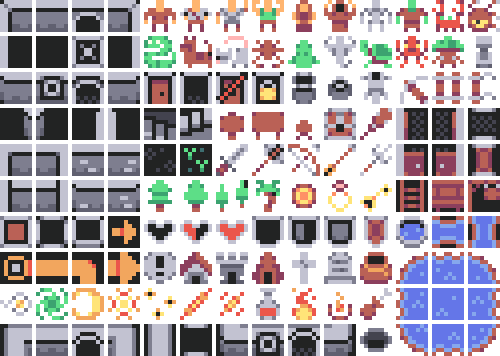
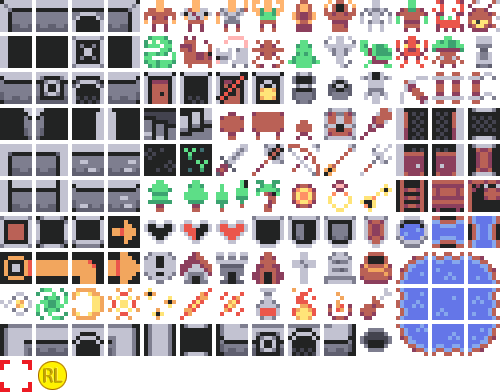
game hud

diff --git a/RPG/game.cpp b/RPG/game.cpp
@@ -1,23 +1,11 @@
 #include "game.h"
 #include "main.h"
 #include "map.h"
+#include "game_hud.h"
 
 #include "raylib.h"
 #include "raymath.h"
 
-// game state data
-
-struct PlayerData
-{
-	Vector2 Position = { 0,0 };
-	SpriteInstance* Sprite = nullptr;
-
-	bool TargetActive = false;
-	Vector2 Target = { 0, 0 };
-	SpriteInstance* TargetSprite = nullptr;
-
-	float Speed = 100;
-};
 
 struct Exit
 {
@@ -28,6 +16,8 @@ struct Exit
 PlayerData Player;
 std::vector<Exit> Exits;
 
+GameHudScreen GameHud(Player);
+
 void LoadLevel(const char* level)
 {
 	LoadMap(level);
@@ -35,6 +25,7 @@ void LoadLevel(const char* level)
 	Player.TargetSprite->Tint = ColorAlpha(Player.TargetSprite->Tint, 0.5f);
 
 	Player.Sprite = AddSprite(PlayerSprite, Player.Position);
+	Player.Sprite->Bobble = true;
 }
 
 void StartLevel()
@@ -66,6 +57,8 @@ void StartLevel()
 
 void InitGame()
 {
+	ActivateGame();
+
 	// load start level
 	LoadLevel("resources/maps/level0.tmx");
 	StartLevel();
@@ -76,13 +69,9 @@ void QuitGame()
 	ClearMap();
 }
 
-void SetSpritePos(SpriteInstance* sprite, Vector2 pos)
+void ActivateGame()
 {
-	if (sprite != nullptr)
-	{
-		sprite->Position = pos;
-		sprite->Position.y += fabsf(sinf(float(GetTime() * 5)) * 3);
-	}
+	SetActiveScreen(&GameHud);
 }
 
 void GetMoveInput()
@@ -145,7 +134,8 @@ void MovePlayer()
 
 void UpdatePlayerSprite()
 {
-	SetSpritePos(Player.Sprite, Player.Position);
+	if (Player.Sprite != nullptr)
+		Player.Sprite->Position = Player.Position;
 
 	if (Player.TargetSprite != nullptr)
 	{
@@ -166,7 +156,6 @@ void UpdateGame()
 
 	GetMoveInput();
 	MovePlayer();
-
 
 	UpdateSprites();
 }

diff --git a/RPG/include/game.h b/RPG/include/game.h
@@ -1,5 +1,34 @@
 #pragma once
 
+#include "raylib.h"
+#include "sprites.h"
+#include "map.h"
+
 void InitGame();
+void ActivateGame();
 void QuitGame();
 void UpdateGame();
+
+// game state data
+
+struct PlayerData
+{
+	Vector2 Position = { 0,0 };
+	SpriteInstance* Sprite = nullptr;
+
+	bool TargetActive = false;
+	Vector2 Target = { 0, 0 };
+	SpriteInstance* TargetSprite = nullptr;
+
+	float Speed = 100;
+
+	// player stats
+	int Health = 100;
+	int MaxHealth = 100;
+
+	int Gold = 0;
+
+	// inventory
+
+	// event callbacks
+};

diff --git a/RPG/map.cpp b/RPG/map.cpp
@@ -89,7 +89,13 @@ void DrawMap()
 	{
 		const SpriteInstance& sprite = entry.second;
 		if (sprite.Active)
-			DrawSprite(sprite.SpriteFrame, sprite.Position.x, sprite.Position.y, 0.0f, 1.0f, sprite.Tint);
+		{
+			float offset = 0;
+			if (sprite.Bobble)
+				offset =  fabsf(sinf(float(GetTime() * 5)) * 3);
+
+			DrawSprite(sprite.SpriteFrame, sprite.Position.x, sprite.Position.y + offset, 0.0f, 1.0f, sprite.Tint);
+		}
 	}
 	EndMode2D();
 }

diff --git a/RPG/game_hud.cpp b/RPG/game_hud.cpp
@@ -1,0 +1,16 @@
+#include "game_hud.h"
+#include "raylib.h"
+
+GameHudScreen::GameHudScreen(PlayerData& player) 
+	: Screen()
+	, Player(player)
+{
+
+}
+
+void GameHudScreen::Draw()
+{
+	DrawRectangle(0, GetScreenHeight() - 80, GetScreenWidth(), 80, ColorAlpha(BLACK, 0.5f));
+	DrawSprite(CoinSprite, GetScreenWidth() - 200, GetScreenHeight() - 60, 4);
+	DrawText("x 000", GetScreenWidth() - 170, GetScreenHeight() - 80, 40, WHITE);
+}

diff --git a/RPG/loading.cpp b/RPG/loading.cpp
@@ -96,7 +96,7 @@ void CleanupResources()
 
 void FinalizeLoad()
 {
-	LoadSpriteFrames(TileSetTexture, 14, 10, 4);
+	LoadSpriteFrames(TileSetTexture, 14, 11, 4);
 
 	for (int i = 4; i < 14; i++)
 	{
@@ -105,6 +105,7 @@ void FinalizeLoad()
 	}
 
 	CenterSprite(ClickTargetSprite);
+	CenterSprite(CoinSprite);
 }
 
 void UpdateLoad()

diff --git a/RPG/include/sprites.h b/RPG/include/sprites.h
@@ -19,4 +19,5 @@ void FillRectWithSprite(int spriteId, const Rectangle& rect, Color tint = { 255,
 // sprite IDs
 constexpr int BackgroundSprite = 60;
 constexpr int PlayerSprite = 5;
-constexpr int ClickTargetSprite = 78;
+constexpr int ClickTargetSprite = 140;
+constexpr int CoinSprite = 141;

diff --git a/RPG/include/game_hud.h b/RPG/include/game_hud.h
@@ -1,0 +1,14 @@
+#pragma once
+
+#include "screens.h"
+#include "game.h"
+
+class GameHudScreen : public Screen
+{
+public:
+	GameHudScreen(PlayerData& player);
+
+	void Draw() override;
+
+	PlayerData& Player;
+};

diff --git a/RPG/include/map.h b/RPG/include/map.h
@@ -27,6 +27,7 @@ struct SpriteInstance
 	int SpriteFrame = -1;
 	Vector2 Position = { 0,0 };
 	Color Tint = WHITE;
+	bool Bobble = false;
 };
 
 SpriteInstance* AddSprite(int frame, const Vector2& position);

diff --git a/RPG/main.cpp b/RPG/main.cpp
@@ -109,6 +109,7 @@ void ResumeGame()
 {
 	ApplicationState = ApplicationStates::Running;
 	SetActiveScreen(nullptr);
+	ActivateGame();
 }
 
 void EndGame()
